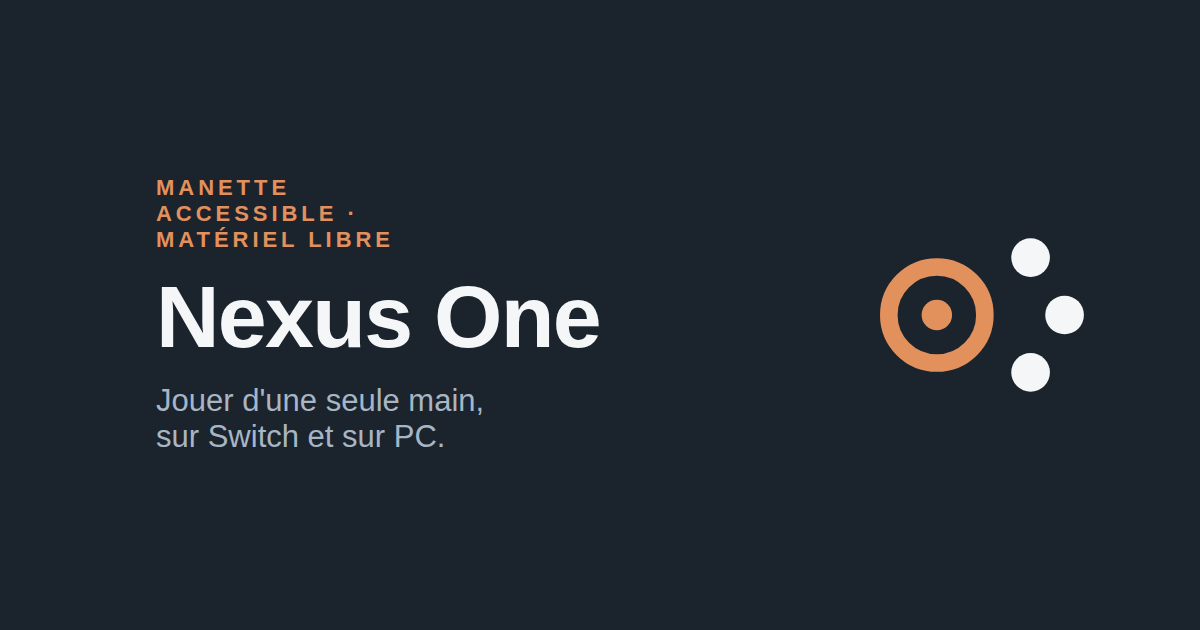
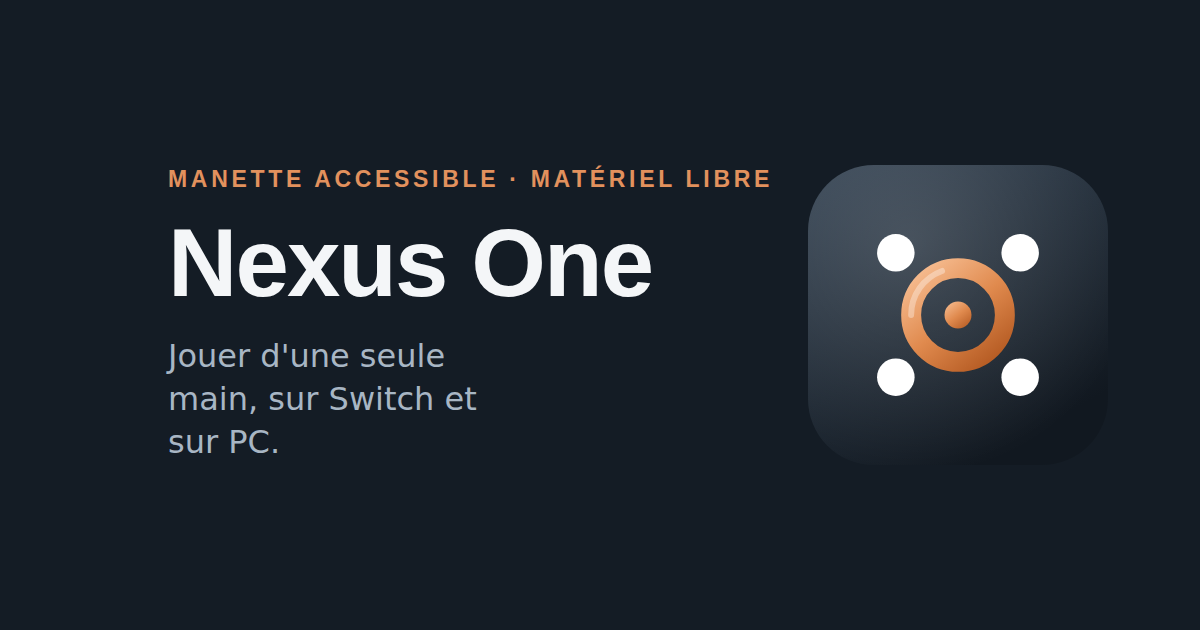
Nouvelle icône : stick et boutons du pouce, avec relief
L'ancienne icône (anneau plat et trois points en arc) se dispersait en
petit et manquait de caractère. Quatre pistes ont été dessinées et jugées
aux trois tailles réelles (150, 48 et 29 px) : la main se lisait comme un
seau, l'arc se dispersait, le balayage évoquait un symbole de veille.

Retenu : le stick en anneau cuivré dégradé, entouré des quatre boutons du
pouce en losange — équilibré, encore net à 29 px, et moins « cible » que
la disposition en croix. Un arc de lumière en haut à gauche donne le
relief attendu d'une icône d'application.

- favicon.svg, icon-192, icon-512, apple-touch-icon régénérés
- variante masquable : motif ramené à 72 % pour la zone sûre Android
- og.png refait avec la nouvelle marque (et les polices qui chargent
  réellement, le sur-titre ne passe plus à la ligne)
- BrandMark du site aligné sur le même dessin

Claude-Session: https://claude.ai/code/session_01QrG4uDdJkuGG6GVqasZZR4

Changed region(s): [[0.1233, 0.2714, 0.6475, 0.7238], [0.6475, 0.2413, 0.925, 0.6333]]

diff --git a/web/src/components/Icons.tsx b/web/src/components/Icons.tsx
@@ -82,17 +82,37 @@ export function Icon({ name, size = 24 }: Props) {
   );
 }
 
-/** Marque de la manette : un stick et l'arc de quatre boutons du pouce. */
+/** Marque de la manette : le stick et les quatre boutons du pouce.
+ *  Reprend le dessin de l'icône de l'application (web/public/favicon.svg). */
 export function BrandMark({ size = 26 }: { size?: number }) {
   return (
-    <svg width={size} height={size} viewBox="0 0 32 32" aria-hidden="true" focusable="false">
-      <rect x="1.5" y="1.5" width="29" height="29" rx="8.5" fill="currentColor" opacity=".1" />
-      <rect x="1.5" y="1.5" width="29" height="29" rx="8.5" fill="none" stroke="currentColor" strokeWidth="1.6" opacity=".45" />
-      <circle cx="12.5" cy="16" r="4.6" fill="none" stroke="currentColor" strokeWidth="2" />
-      <circle cx="12.5" cy="16" r="1.5" fill="currentColor" />
-      <circle cx="22" cy="10.5" r="1.9" fill="currentColor" />
-      <circle cx="25.5" cy="16" r="1.9" fill="currentColor" />
-      <circle cx="22" cy="21.5" r="1.9" fill="currentColor" />
+    <svg width={size} height={size} viewBox="0 0 512 512" aria-hidden="true" focusable="false">
+      <defs>
+        <linearGradient id="bm-bg" x1="0" y1="0" x2="0.55" y2="1">
+          <stop offset="0" stopColor="#334252" />
+          <stop offset="1" stopColor="#111820" />
+        </linearGradient>
+        <linearGradient id="bm-cu" x1="0.1" y1="0" x2="0.9" y2="1">
+          <stop offset="0" stopColor="#f6bc90" />
+          <stop offset="0.5" stopColor="#e08a4e" />
+          <stop offset="1" stopColor="#b45a22" />
+        </linearGradient>
+      </defs>
+      <rect width="512" height="512" rx="118" fill="url(#bm-bg)" />
+      <circle cx="256" cy="256" r="80" fill="none" stroke="url(#bm-cu)" strokeWidth="34" />
+      <path
+        d="M176 256 A80 80 0 0 1 228.8 180.8"
+        fill="none"
+        stroke="#fff"
+        strokeOpacity="0.34"
+        strokeWidth="10.2"
+        strokeLinecap="round"
+      />
+      <circle cx="256" cy="256" r="23" fill="url(#bm-cu)" />
+      <circle cx="362.1" cy="149.9" r="32" fill="#fff" />
+      <circle cx="362.1" cy="362.1" r="32" fill="#fff" />
+      <circle cx="149.9" cy="362.1" r="32" fill="#fff" />
+      <circle cx="149.9" cy="149.9" r="32" fill="#fff" />
     </svg>
   );
 }
